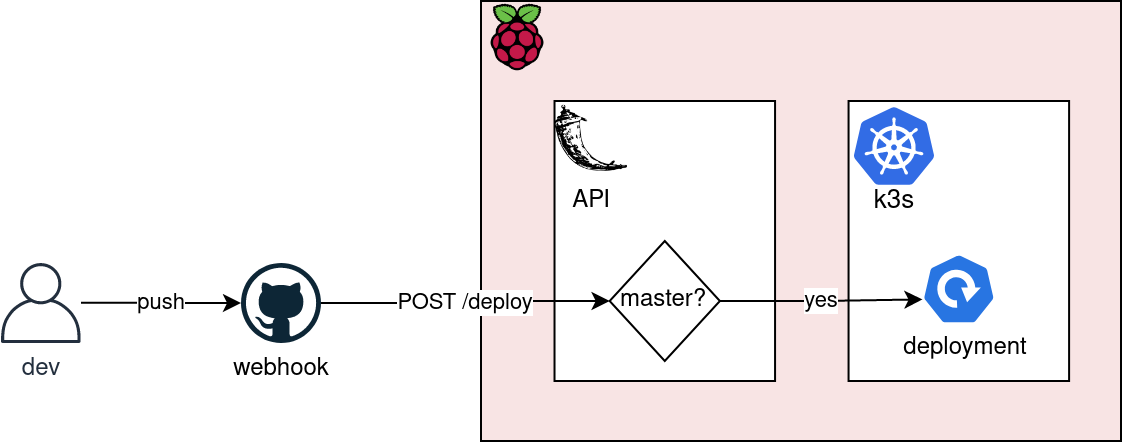
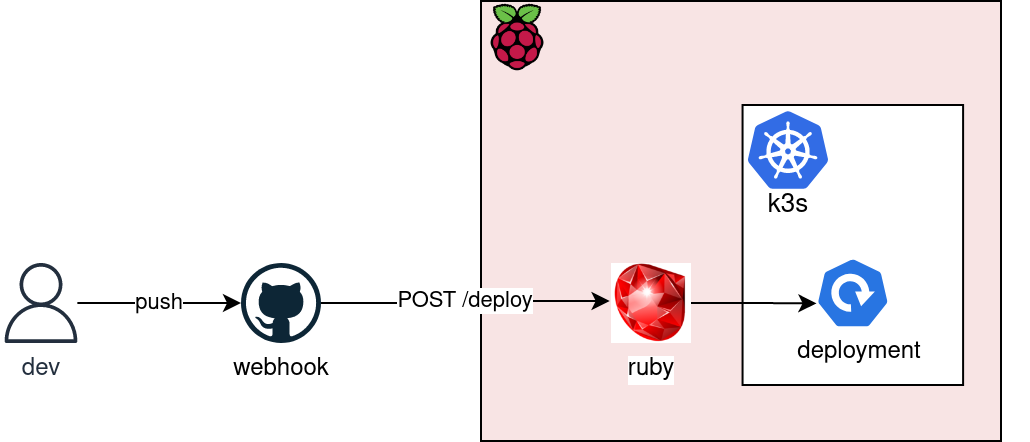
feat: add security to webhook (#11)

diff --git a/Webhook/README.md b/Webhook/README.md
@@ -1,7 +1,7 @@
 # Deployment Webhook
-This simple Flask API listens for POST requests on the `/deploy` path.
+This simple Sinatra (ruby) API listens for POST requests on the `/deploy` path.
 
-The POST requests are triggered by every push on the `back-end` repo. If the `push` is on the `main` branch, it triggers the deployment upgrade on the cluster. 
+The POST requests are triggered by the `Continuous Delivery` workflow on the `back-end` repo, which updates the deployment in k3s. 
 
 <p align="center">
 <img src="imgs/diagram.png" width="500" alt="diagram">
